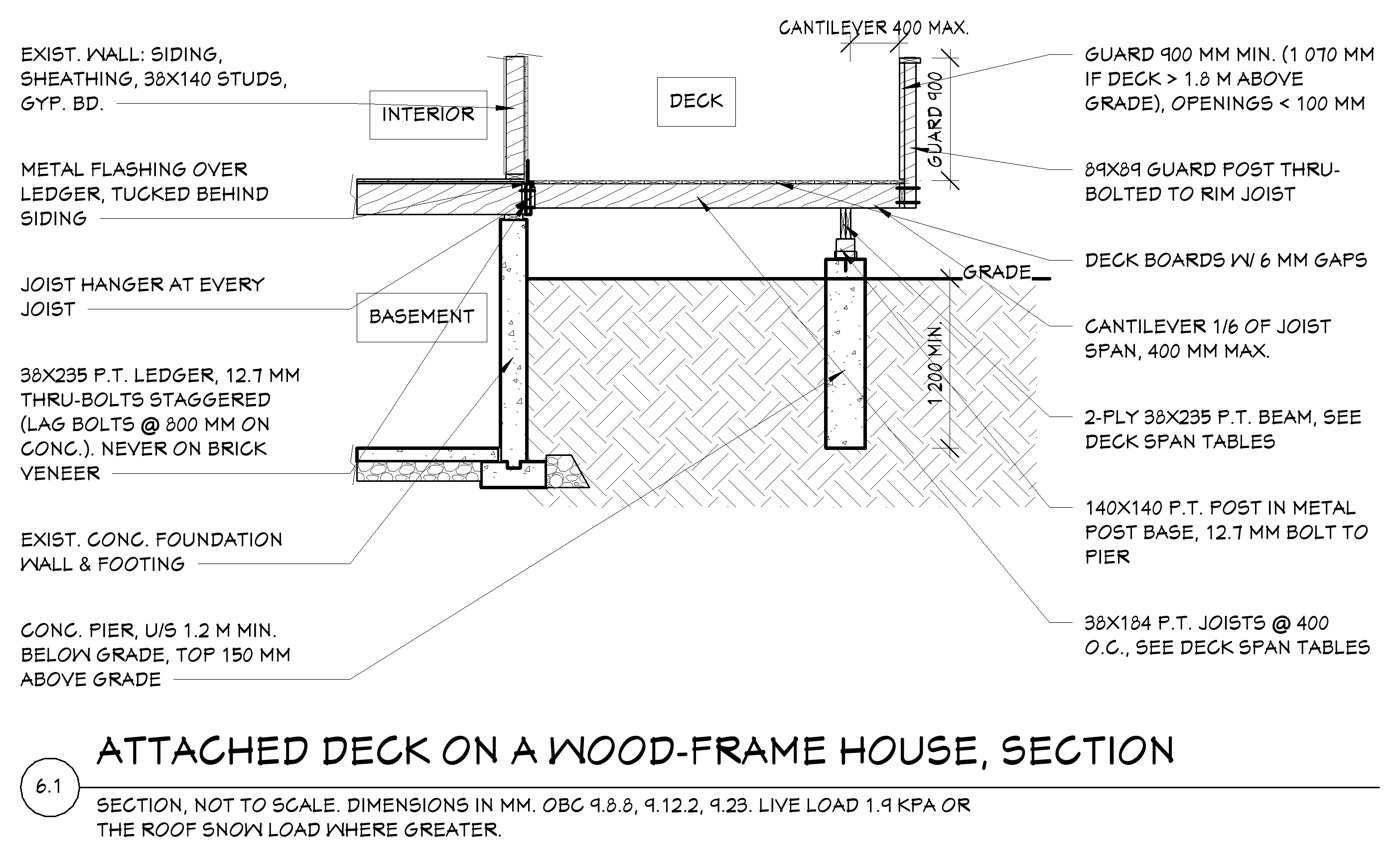
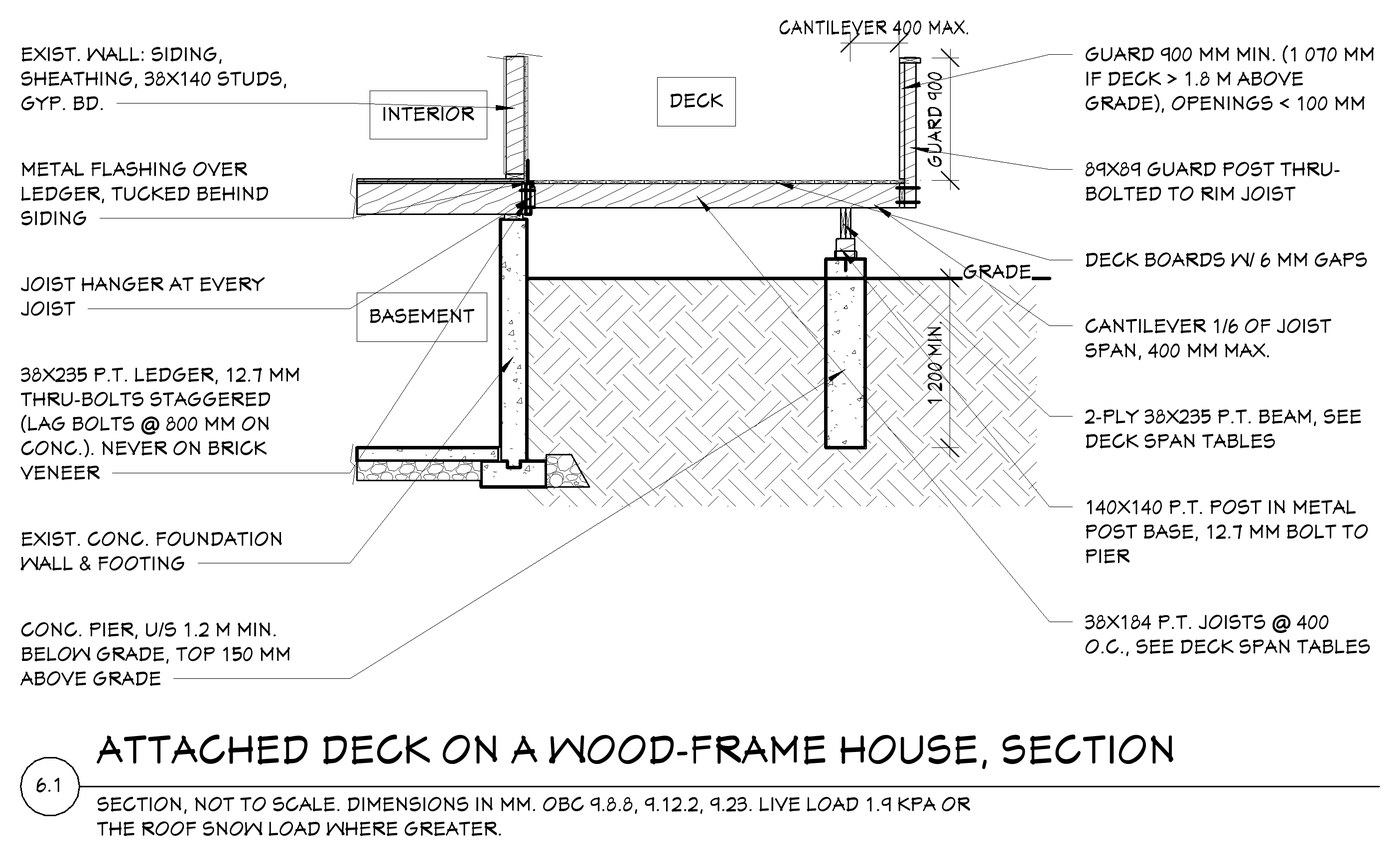
Replace project-derived imagery with stock photos and Guide construction details
Claude-Session: https://claude.ai/code/session_01KwWttT6JyxiJdxM8JPCezD

diff --git a/index.html b/index.html
@@ -8,7 +8,7 @@
 <link rel="canonical" href="https://permitsetready.ca/">
 <meta property="og:title" content="Permit Set Ready — permit drawings, drafted in Revit">
 <meta property="og:description" content="Fixed price per job, drafted to your standards, delivered in 7–10 business days. Serving the GTA.">
-<meta property="og:image" content="https://permitsetready.ca/img/hero-house.jpg">
+<meta property="og:image" content="https://permitsetready.ca/img/hero-stock.jpg">
 <meta property="og:url" content="https://permitsetready.ca/">
 <link rel="icon" href="img/favicon.svg" type="image/svg+xml">
 <link rel="preconnect" href="https://fonts.googleapis.com">
@@ -55,7 +55,7 @@ footer .logo img{width:26px;height:26px}
 
 /* hero */
 .hero{position:relative;color:#fff;overflow:hidden;background:var(--navy-ink);padding:0}
-.hero .bg{position:absolute;inset:0;background:url(img/hero-house.jpg) center 40%/cover no-repeat;opacity:.7}
+.hero .bg{position:absolute;inset:0;background:url(img/hero-stock.jpg) center 45%/cover no-repeat;opacity:.7}
 .hero::after{content:"";position:absolute;inset:0;background:linear-gradient(90deg,rgba(14,31,54,.96) 0%,rgba(14,31,54,.88) 42%,rgba(14,31,54,.25) 75%,rgba(14,31,54,.1) 100%),linear-gradient(180deg,rgba(14,31,54,0) 60%,rgba(14,31,54,.9) 100%)}
 .hero .wrap{position:relative;z-index:1;padding-top:104px;padding-bottom:110px;max-width:var(--max)}
 .hero .eyebrow{color:#F3C978}.hero .eyebrow::before{background:#F3C978}
@@ -129,14 +129,14 @@ section{padding:84px 0}
 .gallery{display:grid;grid-template-columns:1.4fr 1fr;grid-auto-rows:260px;gap:16px}
 .gallery figure{margin:0;position:relative;border-radius:14px;overflow:hidden;background:#1F3A5F;border:1px solid rgba(255,255,255,.1)}
 .gallery figure img{width:100%;height:100%;object-fit:cover;object-position:center top;transition:transform .5s}
-.gallery figure.fit{background:#fff}.gallery figure.fit img{object-fit:contain;padding:10px}
+.gallery figure.fit{background:#fff}.gallery figure.fit img{object-fit:contain;padding:12px 12px 44px}.gallery figure.fit figcaption{background:#F6F1E8;color:#1F3A5F;border-top:1px solid #E8E0D2;padding:10px 14px}
 .gallery figure:hover img{transform:scale(1.03)}
 .gallery figcaption{position:absolute;left:0;right:0;bottom:0;padding:14px 16px;font-size:13px;color:#fff;background:linear-gradient(180deg,rgba(14,31,54,0),rgba(14,31,54,.85))}
 .gallery .tall{grid-row:span 2}
 .specs{display:grid;grid-template-columns:repeat(3,1fr);gap:14px 28px;margin:36px 0 0;padding:0;list-style:none;font-size:15px;color:#D6DEE9}
 .specs li{padding-left:22px;position:relative}
 .specs li::before{content:"";position:absolute;left:0;top:9px;width:10px;height:3px;background:var(--amber);border-radius:2px}
-@media (max-width:860px){.gallery{grid-template-columns:1fr;grid-auto-rows:220px}.gallery .tall{grid-row:auto}.specs{grid-template-columns:1fr 1fr}}
+@media (max-width:860px){.gallery{grid-template-columns:1fr;grid-auto-rows:250px}.gallery figure.fit img{padding-bottom:60px}.gallery .tall{grid-row:auto}.specs{grid-template-columns:1fr 1fr}}
 
 /* about */
 .about .wrap{display:grid;grid-template-columns:1fr 1fr;gap:56px;align-items:center}
@@ -315,11 +315,11 @@ footer .logo{color:#fff;font-size:18px}
 <div class="wrap">
 <div class="section-head"><p class="eyebrow">The work</p><h2 class="serif">Drawn the way an examiner expects to read it.</h2><p>Real insulation, standard hatching, all-caps leader notes and the details a Part 9 set needs. Modelled in Revit, so elevations, sections and schedules all agree.</p></div>
 <div class="gallery">
-  <figure class="tall"><img src="img/work-modern.jpg" alt="Front perspective of a modern two-storey house, Revit model"><figcaption>New two-storey, contemporary — front perspective from the permit model</figcaption></figure>
-  <figure class="fit"><img src="img/deck-section.jpg" alt="Attached deck section with notes and dimensions"><figcaption>Attached deck section, OBC 9.8.8 and 9.12.2</figcaption></figure>
-  <figure><img src="img/work-traditional.jpg" alt="Front perspective of a traditional house with turret, Revit model"><figcaption>Second-storey addition — model view used for the elevations</figcaption></figure>
-  <figure class="fit"><img src="img/work-elevation.jpg" alt="Front elevation sheet with level markers and dimensions"><figcaption>Front elevation, as issued for permit</figcaption></figure>
+  <figure class="fit tall"><img src="img/deck-section.jpg" alt="Attached deck section with guard, ledger and footing notes"><figcaption>Attached deck section — guard, ledger and footing, OBC 9.8.8 and 9.12.2</figcaption></figure>
   <figure class="fit"><img src="img/egress-section.jpg" alt="Basement bedroom egress window and window well section"><figcaption>Egress window and window well, OBC 9.9.10.1</figcaption></figure>
+  <figure class="fit"><img src="img/fire-separation.jpg" alt="Fire separation wall and ceiling assembly between dwelling units"><figcaption>Second-unit fire separation assemblies, OBC 9.10.9</figcaption></figure>
+  <figure class="fit"><img src="img/bge-section.jpg" alt="Below-grade entrance stair and areaway section"><figcaption>Below-grade entrance — stair, areaway and drainage</figcaption></figure>
+  <figure class="fit"><img src="img/garage-detail.jpg" alt="Detached garage wall section at the lot line"><figcaption>Detached garage, wall section at the lot line</figcaption></figure>
 </div>
 <ul class="specs">
   <li>Footings and foundation details</li>
@@ -403,7 +403,7 @@ footer .logo{color:#fff;font-size:18px}
       <a class="btn btn-line" href="https://permitready.lemonsqueezy.com/checkout/buy/f091900b-7226-460b-8305-c25e2d422423">Get the $59 guide</a>
     </div>
   </div>
-  <figure><img src="img/work-outdoor.jpg" alt="Covered outdoor dining area and patio, Revit model"></figure>
+  <figure><img src="img/home-deck.jpg" alt="Two-storey house with a covered deck and pergola"></figure>
 </div>
 </section>
 
